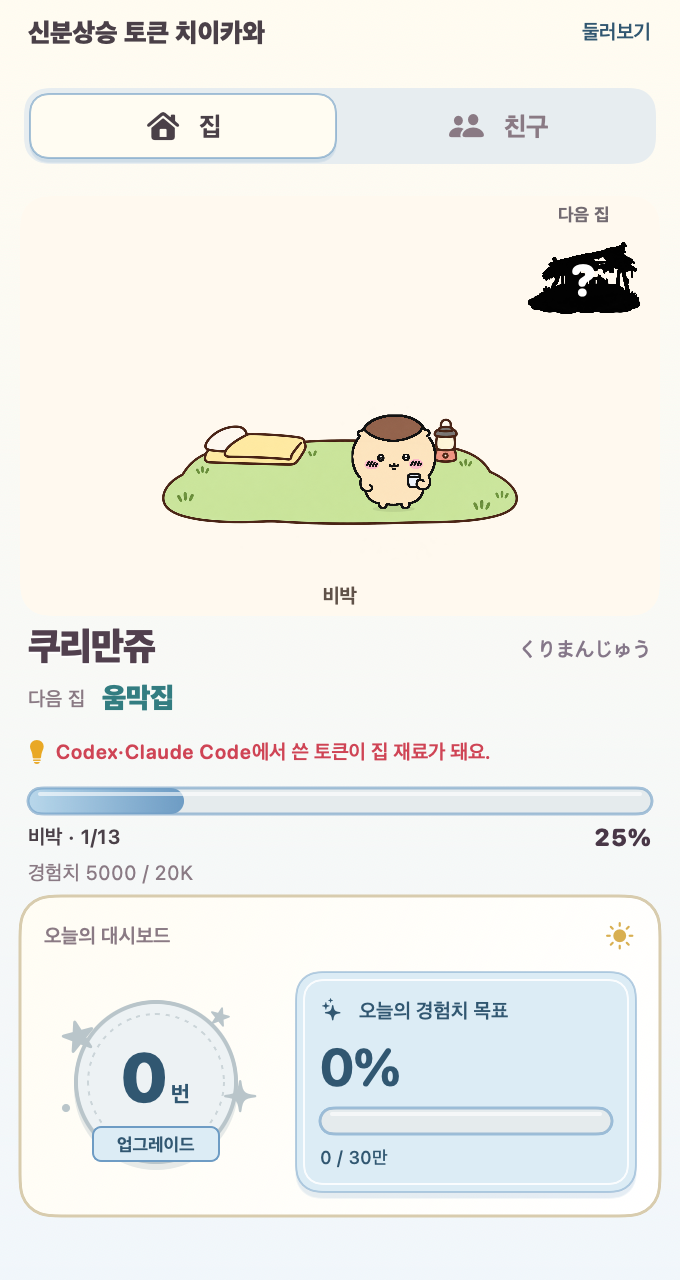
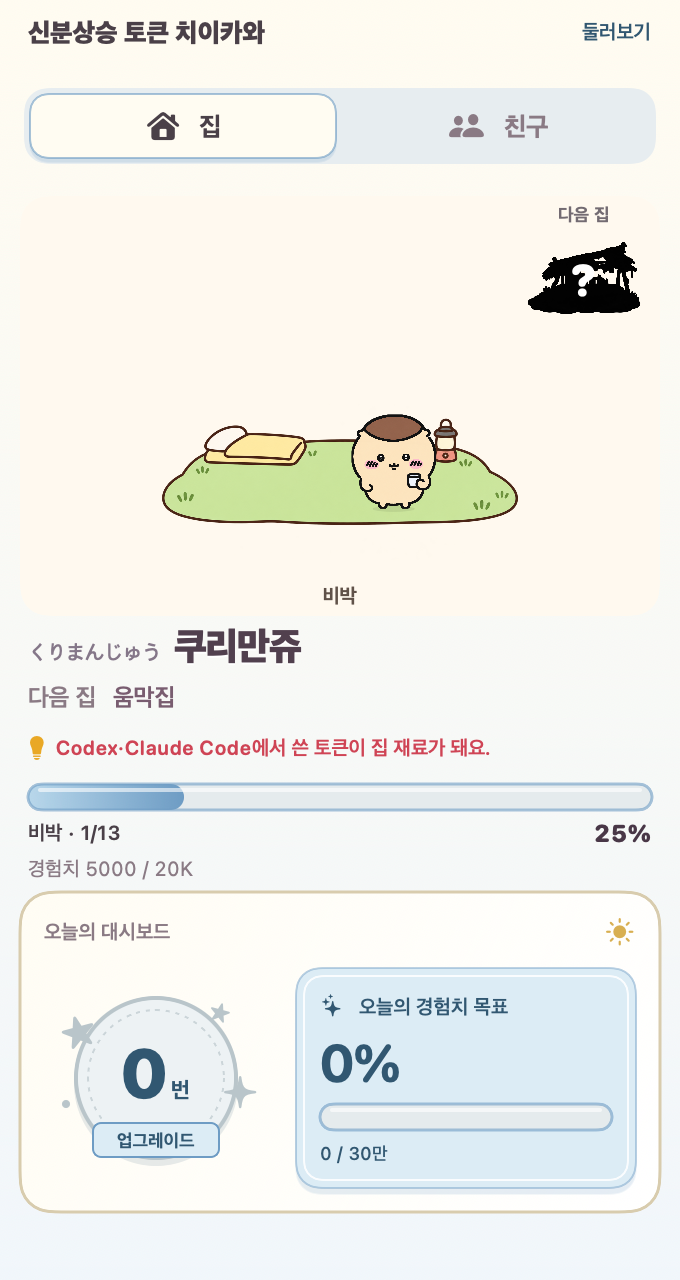
Align bilingual names and soften house labels in 0.4.4

Changed region(s): [[0.0309, 0.4688, 0.9574, 0.9688], [0.7721, 0.5, 0.9574, 0.5312]]

diff --git a/Sources/ChiiBar/PopoverView.swift b/Sources/ChiiBar/PopoverView.swift
@@ -176,16 +176,16 @@ struct HouseSceneView: View {
 struct FriendHeader: View {
     @ObservedObject var model: AppModel
     var body: some View {
-        HStack {
+        HStack(alignment: .firstTextBaseline, spacing: 6) {
+            Text(model.state.current?.japaneseName ?? "")
+                .font(.system(size: 11, weight: .semibold, design: .rounded))
+                .foregroundStyle(Ink.rgb(0x857789))
             Text(model.state.current?.name ?? "친구")
                 .font(.custom("AppleSDGothicNeo-Heavy", size: 19))
                 .tracking(-0.5)
                 .foregroundStyle(Ink.rgb(0x51404E))
                 .shadow(color: .white, radius: 0, y: 1)
-            Spacer(minLength: 8)
-            Text(model.state.current?.japaneseName ?? "")
-                .font(.system(size: 11, weight: .semibold, design: .rounded))
-                .foregroundStyle(Ink.rgb(0x857789))
+            Spacer(minLength: 0)
         }.padding(.horizontal, 4)
     }
 }
@@ -245,14 +245,14 @@ struct StageProgress: View {
             HStack {
                 if !model.building && !house.isComplete {
                     Text("다음 집")
-                        .font(.system(size: 10, weight: .medium))
+                        .font(.system(size: 12, weight: .semibold))
                         .foregroundStyle(Theme.soft)
                     Text(HousePlan.pieceNames[house.stage])
-                        .font(.custom("AppleSDGothicNeo-Heavy", size: 14))
-                        .foregroundStyle(Ink.rgb(0x337D81))
+                        .font(.system(size: 12, weight: .semibold))
+                        .foregroundStyle(Ink.rgb(0x795D70))
                 } else {
-                    Text(label).font(.custom("AppleSDGothicNeo-Heavy", size: 14))
-                        .foregroundStyle(Ink.rgb(0x337D81))
+                    Text(label).font(.system(size: 12, weight: .semibold))
+                        .foregroundStyle(Ink.rgb(0x795D70))
                 }
                 Spacer()
             }
